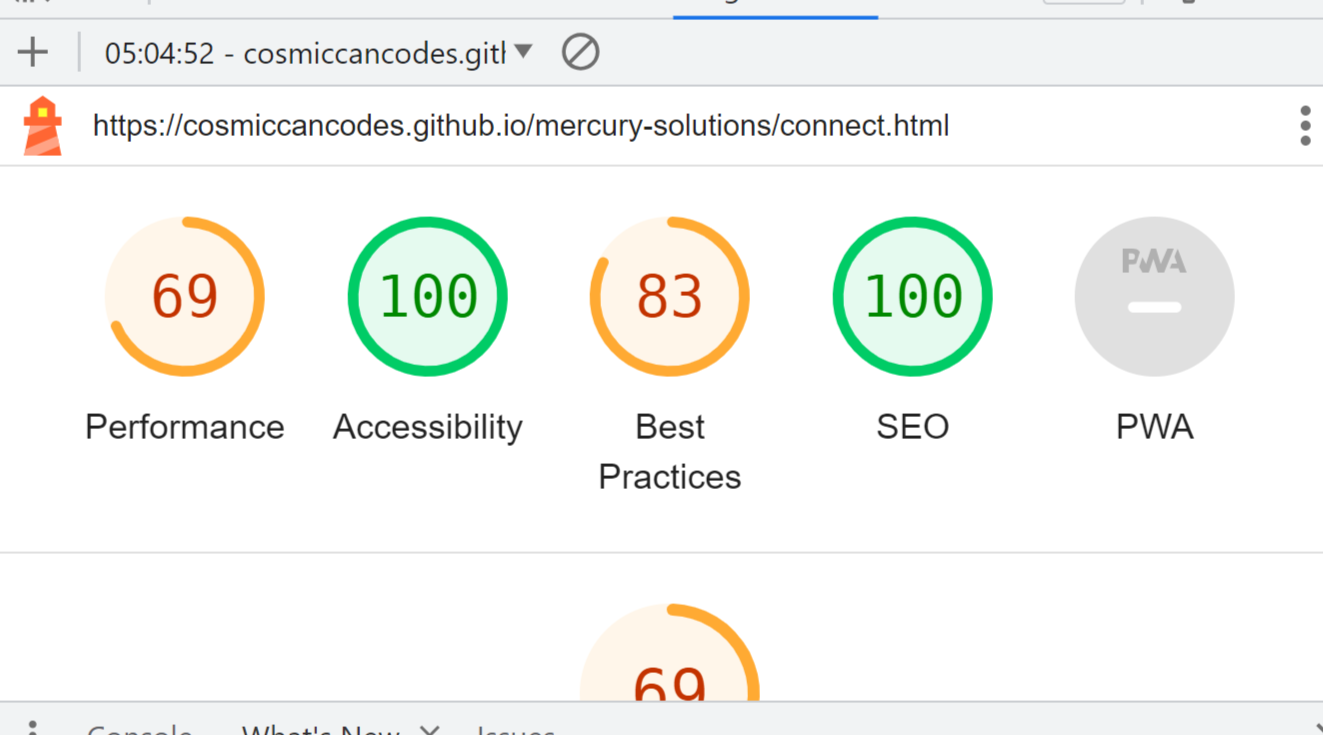
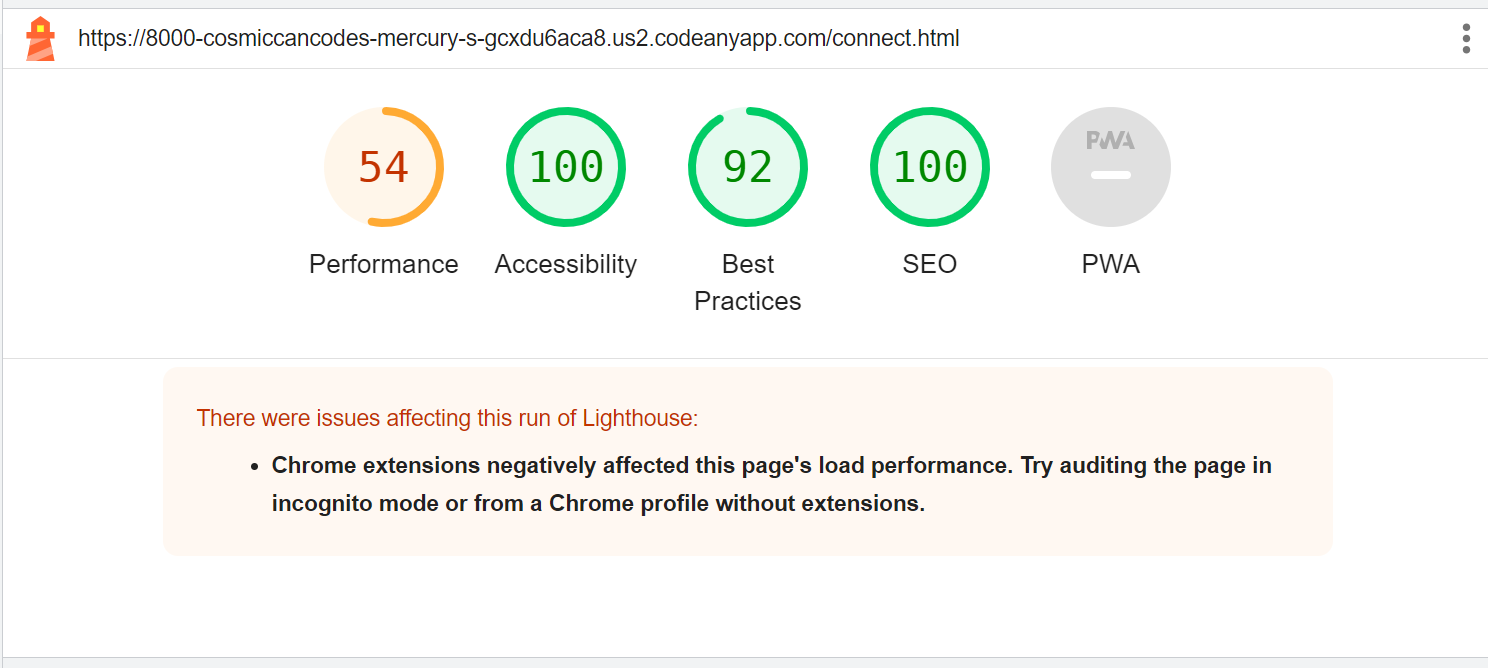
Changed pictures of Lighthouse section with new ones, and updated the description

diff --git a/README.md b/README.md
@@ -251,8 +251,7 @@ After clearing them up, I got everything validated.
 ![Image of Ligthouse for the Review Page](assets/images/review_lighthouse.png "Review Page validation")!
 ![Image of Lighthouse for the Form Page](assets/images/form_lighthouse.png "Form Page validation")!
 
-Due to time constraints, I wasn't able to push the numbers up as I would have liked.
-
+I attempted to get the Performance up by changing the images from jpeg to webp. I think with a bit more finesse and expertise, I will bring that up to the high 90's as well. 
 
 ## Responsivity
 
